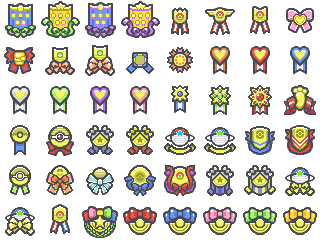
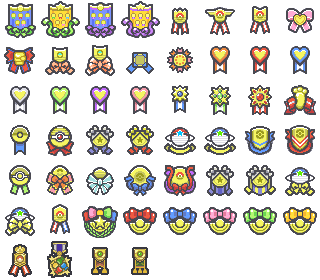
Added Gen 7 ribbons (#688)

diff --git a/client/styles/ribbons.css b/client/styles/ribbons.css
@@ -197,3 +197,19 @@
 .ribbon.toughness-master-ribbon {
     background-position: -280px -200px;
 }
+
+.ribbon.alola-champion-ribbon {
+    background-position: 0 -240px;
+}
+
+.ribbon.battle-royal-master-ribbon {
+    background-position: -40px -240px;
+}
+
+.ribbon.battle-tree-great-ribbon {
+    background-position: -80px -240px;
+}
+
+.ribbon.battle-tree-master-ribbon {
+    background-position: -120px -240px;
+}
